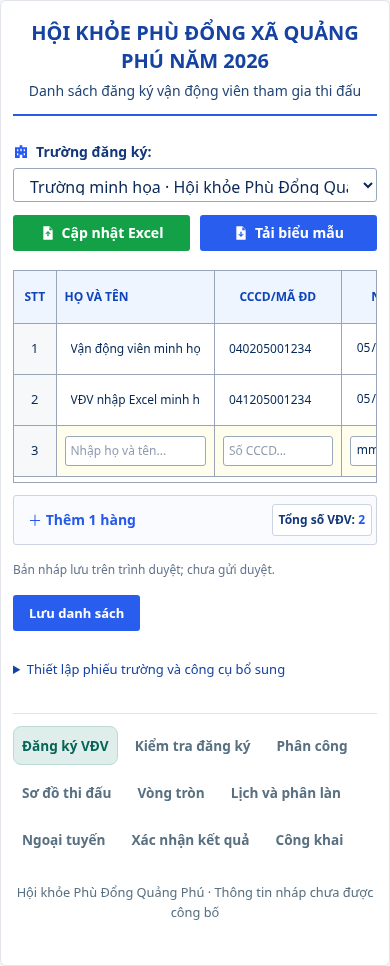
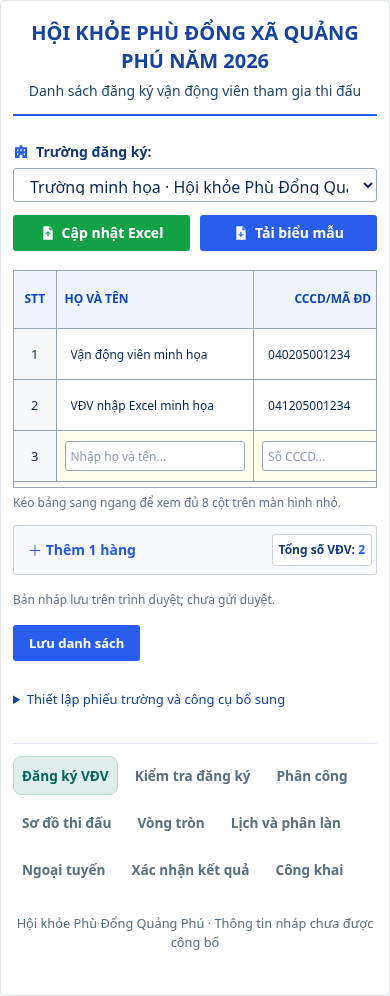
fix: show all eight athlete registration columns (#24)

diff --git a/apps/web/src/athlete-registration-page.tsx b/apps/web/src/athlete-registration-page.tsx
@@ -126,6 +126,8 @@ export function AthleteRegistrationPage({
         return {
           ...a,
           fullName: clean(a.fullName),
+          className: clean(a.className),
+          requestedEvent: clean(a.requestedEvent),
           ...athleteDetails({ ...a }),
         };
       });
@@ -273,6 +275,8 @@ export function AthleteRegistrationPage({
             <col />
             <col className="registration-gender" />
             <col />
+            <col className="registration-class" />
+            <col />
           </colgroup>
           <thead>
             <tr>
@@ -283,6 +287,8 @@ export function AthleteRegistrationPage({
                 "NGÀY SINH",
                 "GIỚI TÍNH",
                 "GHI CHÚ",
+                "LỚP / NHÓM",
+                "NỘI DUNG THI ĐẤU",
               ].map((h) => (
                 <th key={h}>{h}</th>
               ))}
@@ -352,7 +358,7 @@ export function AthleteRegistrationPage({
                     <option value="female">Nữ</option>
                   </select>
                 </td>
-                <td>
+                <td className="registration-note">
                   <input
                     aria-label={`Ghi chú dòng ${i + 1}`}
                     placeholder="Ghi chú..."
@@ -382,11 +388,36 @@ export function AthleteRegistrationPage({
                     ×
                   </button>
                 </td>
+                <td>
+                  <input
+                    aria-label={`Lớp / nhóm dòng ${i + 1}`}
+                    placeholder="Nhập lớp..."
+                    value={a.className}
+                    disabled={busy}
+                    onChange={(e) =>
+                      change(a.draftId, { className: e.target.value })
+                    }
+                  />
+                </td>
+                <td>
+                  <input
+                    aria-label={`Nội dung thi đấu dòng ${i + 1}`}
+                    placeholder="Nhập nội dung..."
+                    value={a.requestedEvent}
+                    disabled={busy}
+                    onChange={(e) =>
+                      change(a.draftId, { requestedEvent: e.target.value })
+                    }
+                  />
+                </td>
               </tr>
             ))}
           </tbody>
         </table>
       </div>
+      <p className="registration-scroll-hint">
+        Kéo bảng sang ngang để xem đủ 8 cột trên màn hình nhỏ.
+      </p>
       <div className="registration-bottom">
         <button
           type="button"

diff --git a/apps/web/src/style.css b/apps/web/src/style.css
@@ -489,7 +489,7 @@ fieldset:disabled {
 
 /* School entry sheet: styles stay scoped so competition/result screens keep their layout. */
 .registration-mode {
-  max-width: 1060px;
+  max-width: 1280px;
   padding: 26px;
   background: white;
   border: 1px solid #e1e4e9;
@@ -605,7 +605,7 @@ fieldset:disabled {
 }
 .registration-table {
   width: 100%;
-  min-width: 660px;
+  min-width: 1040px;
   table-layout: fixed;
   font-size: 13px;
   color: #072957;
@@ -614,10 +614,24 @@ fieldset:disabled {
   width: 42px;
 }
 .registration-table .registration-name {
-  width: 24%;
+  width: 19%;
 }
 .registration-table .registration-gender {
-  width: 12%;
+  width: 8%;
+}
+.registration-table .registration-class {
+  width: 8%;
+}
+.registration-scroll-hint {
+  display: none;
+  color: #63748e;
+  font-size: 12px;
+  margin: 6px 0 0;
+}
+@media (max-width: 1120px) {
+  .registration-scroll-hint {
+    display: block;
+  }
 }
 .registration-table th {
   color: #1045ba;
@@ -659,7 +673,7 @@ fieldset:disabled {
 .registration-table input::placeholder {
   color: #909caf;
 }
-.registration-table td:last-child {
+.registration-table td.registration-note {
   position: relative;
   padding-right: 22px;
 }

diff --git a/tests/registration-excel.test.ts b/tests/registration-excel.test.ts
@@ -17,6 +17,28 @@ const sample = {
 };
 const arrayBuffer = (bytes: Uint8Array) => bytes.slice().buffer as ArrayBuffer;
 describe("Registration Excel", () => {
+  it("continues reading old templates with the previous class/event column names", async () => {
+    const book = new ExcelJS.Workbook();
+    const sheet = book.addWorksheet("Đăng ký");
+    sheet.addRow([...excelHeaders.slice(0, 6), "LỚP/NHÓM", "NỘI DUNG DỰ KIẾN"]);
+    sheet.addRow([
+      1,
+      sample.fullName,
+      sample.identityNumber,
+      "15/05/2012",
+      "Nữ",
+      sample.note,
+      sample.className,
+      sample.requestedEvent,
+    ]);
+    const imported = await readRegistrationWorkbook(
+      arrayBuffer(new Uint8Array(await book.xlsx.writeBuffer())),
+    );
+    expect(imported[0]).toMatchObject({
+      ...sample,
+      draftId: expect.any(String),
+    });
+  });
   it("writes a real xlsx and preserves leading zeros, dates, gender, notes and legacy fields", async () => {
     const bytes = await registrationWorkbook([sample]);
     expect([...bytes.slice(0, 2)]).toEqual([80, 75]);

diff --git a/tests/registration-table.test.ts b/tests/registration-table.test.ts
@@ -62,6 +62,8 @@ describe("Registration table", () => {
     fill("Ngày sinh dòng 1", "2012-05-15");
     fill("Giới tính dòng 1", "female");
     fill("Ghi chú dòng 1", "Đăng ký mới");
+    fill("Lớp / nhóm dòng 1", " 6A ");
+    fill("Nội dung thi đấu dòng 1", " Chạy 60 m ");
     fill("Trường đăng ký:", "school-b");
     fill("Họ tên dòng 1", "VĐV trường B");
     fill("Trường đăng ký:", "school-a");
@@ -75,8 +77,8 @@ describe("Registration table", () => {
       birthDate: "2012-05-15",
       gender: "female",
       note: "Đăng ký mới",
-      className: "",
-      requestedEvent: "",
+      className: "6A",
+      requestedEvent: "Chạy 60 m",
     });
     expect(output.dirty).toBe(true);
     fill("Trường đăng ký:", "school-b");

diff --git a/apps/web/src/registration-excel.ts b/apps/web/src/registration-excel.ts
@@ -13,8 +13,8 @@ export const excelHeaders = [
   "NGÀY SINH",
   "GIỚI TÍNH",
   "GHI CHÚ",
-  "LỚP/NHÓM",
-  "NỘI DUNG DỰ KIẾN",
+  "LỚP / NHÓM",
+  "NỘI DUNG THI ĐẤU",
 ];
 async function workbook(): Promise<Workbook> {
   const { default: ExcelJS } = await import("exceljs");
@@ -75,7 +75,8 @@ export async function readRegistrationWorkbook(
       sheet.getRow(1).getCell(index + 1).value,
       "Tiêu đề",
     );
-    if (header && header !== excelHeaders[index])
+    const legacyHeader = index === 6 ? "LỚP/NHÓM" : "NỘI DUNG DỰ KIẾN";
+    if (header && header !== excelHeaders[index] && header !== legacyHeader)
       throw new Error("Cột bổ sung không đúng biểu mẫu.");
   }
   const athletes: AthleteDraft[] = [];

diff --git a/docs/screenshots/registration-table-2026-10-12/README.md b/docs/screenshots/registration-table-2026-10-12/README.md
@@ -1,6 +1,6 @@
 # Giao diện đăng ký theo bảng
 
-Thực hiện theo ảnh mẫu người dùng cung cấp ngày 12/10/2026. Tiêu đề Hội khỏe Phù Đổng xã Quảng Phú năm 2026, chọn trường, nút Excel xanh lá/xanh dương và bảng sáu cột: STT, họ tên, CCCD/mã định danh, ngày sinh, giới tính, ghi chú. Thêm/xóa hàng, tổng số VĐV và lưu danh sách nháp; không điền sẵn trường hoặc hồ sơ thật.
+Thực hiện theo ảnh mẫu người dùng cung cấp ngày 12/10/2026. Tiêu đề Hội khỏe Phù Đổng xã Quảng Phú năm 2026, chọn trường, nút Excel xanh lá/xanh dương và bảng tám cột: STT, họ tên, CCCD/mã định danh, ngày sinh, giới tính, ghi chú, lớp/nhóm, nội dung thi đấu. Thêm/xóa hàng, tổng số VĐV và lưu danh sách nháp; không điền sẵn trường hoặc hồ sơ thật.
 
 ![Bản desktop](dang-ky-van-dong-vien.png)
 
@@ -13,12 +13,14 @@ Thực hiện theo ảnh mẫu người dùng cung cấp ngày 12/10/2026. Tiêu
 3. Họ tên bắt buộc. Mã định danh, ngày sinh, giới tính và ghi chú là thông tin nháp; chưa thay thế kiểm tra điều kiện đăng ký chính thức. Nếu nhập mã định danh phải đủ 12 chữ số, không trùng trong phiếu; ô Excel phải là văn bản để giữ số 0 đầu. Ngày sinh cần là ngày tồn tại và không trong tương lai. Ghi chú tối đa 2.000 ký tự.
 4. Dòng mới mặc định Nam, dòng cũ chưa có giới tính hiển thị `--`, không tự suy đoán. Bảng giữ phần đang nhập khi chuyển trường. Chuyển màn khác có cảnh báo bỏ thay đổi; rời trang có beforeunload. Khi công cụ cũ sửa cùng phiếu, bảng chặn ghi đè và giữ bản đang nhập để đối chiếu.
 
-Biểu mẫu có thêm hai cột tùy chọn lớp/nhóm và nội dung dự kiến để giữ thông tin cũ khi nhập/xuất. Không chấp nhận công thức trong các ô thông tin hồ sơ. Nhập lỗi không ghi một phần dữ liệu. Mỗi tệp tối đa 5 MB/2.000 dòng nhằm giới hạn xử lý trong browser; không giới hạn tổng số VĐV của trường, có thể chia nhiều tệp. ExcelJS 4.4.0 được tải động khi dùng Excel, không tải cùng trang ban đầu.
+Lớp/nhóm và nội dung thi đấu có ô nhập ngay trong bảng, được lưu cùng hồ sơ và đồng bộ với hai cột Excel tương ứng. Biểu mẫu mới dùng tiêu đề LỚP / NHÓM và NỘI DUNG THI ĐẤU; vẫn đọc các biểu mẫu cũ dùng LỚP/NHÓM và NỘI DUNG DỰ KIẾN, theo cùng thứ tự cột. Không chấp nhận công thức trong các ô thông tin hồ sơ. Nhập lỗi không ghi một phần dữ liệu. Mỗi tệp tối đa 5 MB/2.000 dòng nhằm giới hạn xử lý trong browser; không giới hạn tổng số VĐV của trường, có thể chia nhiều tệp. ExcelJS 4.4.0 được tải động khi dùng Excel, không tải cùng trang ban đầu.
 
 ## Tương thích và kiểm chứng
 
 Giữ DraftWriter/Web Locks/CAS từ PR #21 và cách bảo toàn dữ liệu khi quota/conflict/corrupt. Phiếu portable v1 cũ vẫn đọc/xuất như cũ; phiếu có thông tin mới hoặc lớp/nội dung chưa nhập dùng portable v2. Stable local IDs chỉ nằm trong browser storage, không xuất. Export whitelist các trường hồ sơ; không thêm quyền duyệt, ID máy chủ hoặc liên kết riêng tư. Bản ứng dụng cũ không đọc được các trường mới, cần tải lại sau cập nhật; không tự sửa bytes lỗi. Các màn khác giữ bố cục cũ và được truy cập qua thanh chức năng dưới bảng.
 
-Thêm 7 test về ô nhập, đổi trường, lưu/khôi phục, lỗi dữ liệu, xung đột công cụ và Excel. Kiểm tập trung đạt 22 test; toàn bộ đạt 703 test/49 file. Typecheck, lint, contract checks, build, secret scan và managed process smoke đạt. Một lần chạy đồng thời smoke/build gây timeout ở test A01 cũ; chạy lại toàn bộ riêng đã đạt, không thay assertion hoặc timeout.
+Thêm 8 test về ô nhập, đổi trường, lưu/khôi phục, lỗi dữ liệu, xung đột công cụ và Excel. Các test liên quan đăng ký gồm 23 test; toàn bộ đạt 704 test/49 file. Typecheck, lint, contract checks, build, secret scan và managed process smoke đạt. Một lần chạy đồng thời smoke/build gây timeout ở test A01 cũ; chạy lại toàn bộ riêng đã đạt, không thay assertion hoặc timeout.
+
+Bổ sung ngày 12/10/2026 theo xác nhận của người dùng: hiển thị đủ tám cột, nhập/sửa/lưu lớp và nội dung ngay trong bảng. Ảnh desktop mới chụp ở viewport 1440 px, kiểm tra cả tám cột nằm trong khung mà không cần cuộn; mobile có gợi ý kéo ngang. Kiểm tra reload xác nhận lớp/nội dung vẫn giữ nguyên.
 
 Ảnh là ứng dụng thực tế chạy trên Chromium, chỉ dùng dữ liệu minh họa. Phiên browser kiểm tra tạo phiếu, lưu các trường mới, tải tệp XLSX thực, nhập XLSX, tải lại giữ dữ liệu, không có uncaught JavaScript exception và không tràn trang ở viewport 390 px. Không kết nối Drive, Supabase hoặc Netlify; không đánh dấu gửi duyệt/UAT nghiệp vụ hoàn thành.
